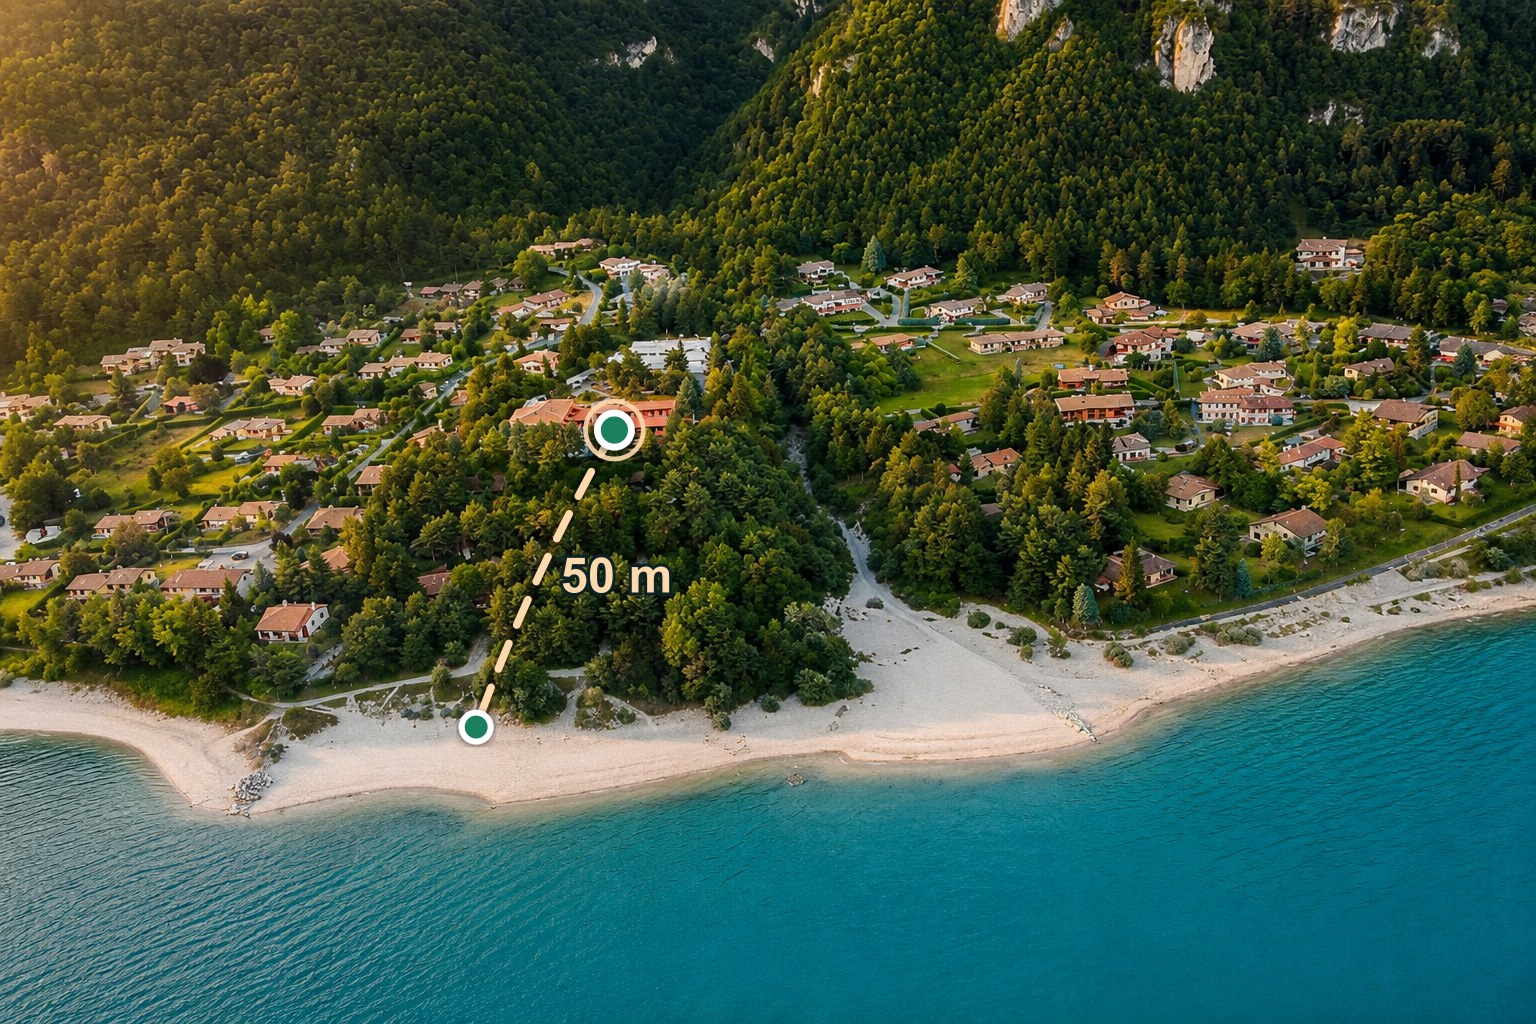
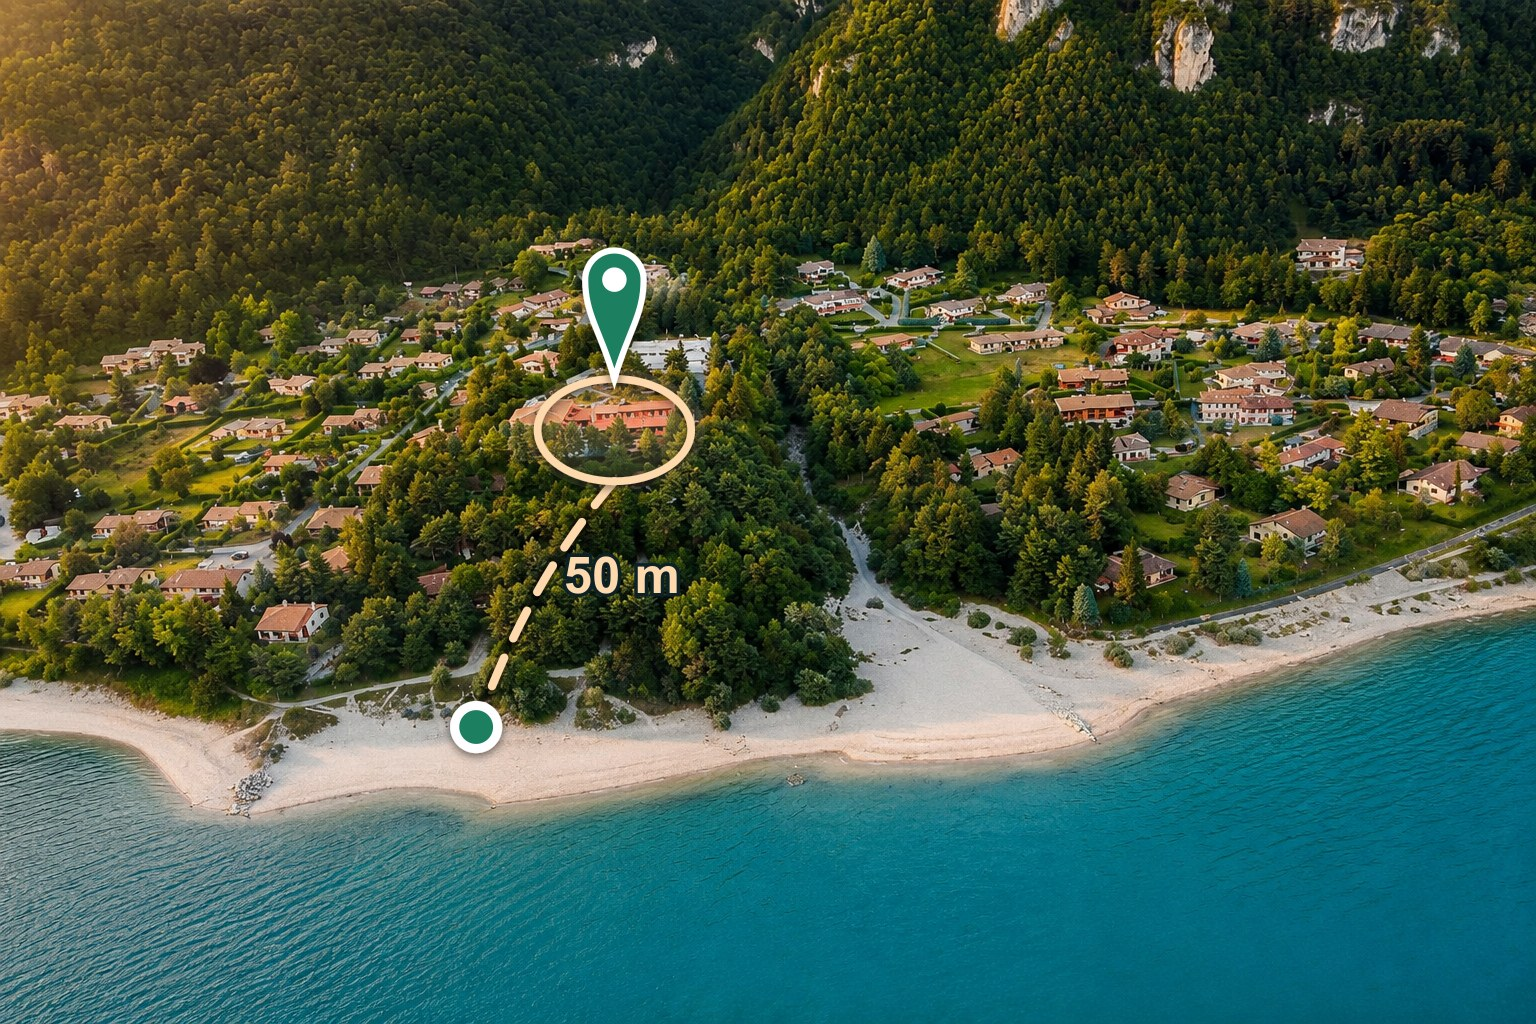
Hero: circled building + map pin baked in; zoom/position photo so villa sits below text and is fully visible on mobile

Changed region(s): [[0.3438, 0.2188, 0.4688, 0.5938], [0.2812, 0.5938, 0.3438, 0.75]]

diff --git a/components/site/hero.tsx b/components/site/hero.tsx
@@ -41,15 +41,18 @@ export function Hero({ lang }: { lang: Lang }) {
 
   return (
     <section ref={root} className="relative min-h-[100svh] flex items-start overflow-hidden">
-      {/* аэрофото с ВЖЖЁННЫМ указателем «вилла → 50 m → пляж» (маркеры всегда точны при любом кропе) */}
+      {/* аэрофото с ВЖЖЁННЫМ указателем «вилла → 50 m → пляж».
+          Мобильный: зум + прижатие к верху, чтобы обведённое здание было НИЖЕ текста и полностью видно. */}
       <div
-        className="hero-bg absolute inset-0 bg-cover will-change-transform [background-position:36%_45%] md:[background-position:50%_38%]"
+        className="hero-bg absolute inset-0 will-change-transform bg-no-repeat
+                   [background-size:auto_132%] [background-position:36%_0%]
+                   md:bg-cover md:[background-position:50%_30%]"
         style={{ backgroundImage: `url(${heroAnnotated})` }}
         role="img"
-        aria-label="Villa Idro on Lake Idro — the villa marked, 50 metres to the beach"
+        aria-label="Villa Idro on Lake Idro — the villa circled, 50 metres to the beach"
       />
-      {/* затемнение только сверху (под текст); низ с виллой, путём и пляжем открыт */}
-      <div className="absolute inset-x-0 top-0 h-[62%] bg-gradient-to-b from-[#0d2227]/92 via-[#0d2227]/45 to-transparent" />
+      {/* затемнение только под текстом сверху; вилла/путь/пляж ниже — открыты */}
+      <div className="absolute inset-x-0 top-0 h-[44%] bg-gradient-to-b from-[#0d2227]/92 via-[#0d2227]/55 to-transparent" />
 
       <div className="relative z-10 w-full max-w-6xl mx-auto px-5 md:px-8 pt-24 md:pt-28">
         <div className="max-w-xl">